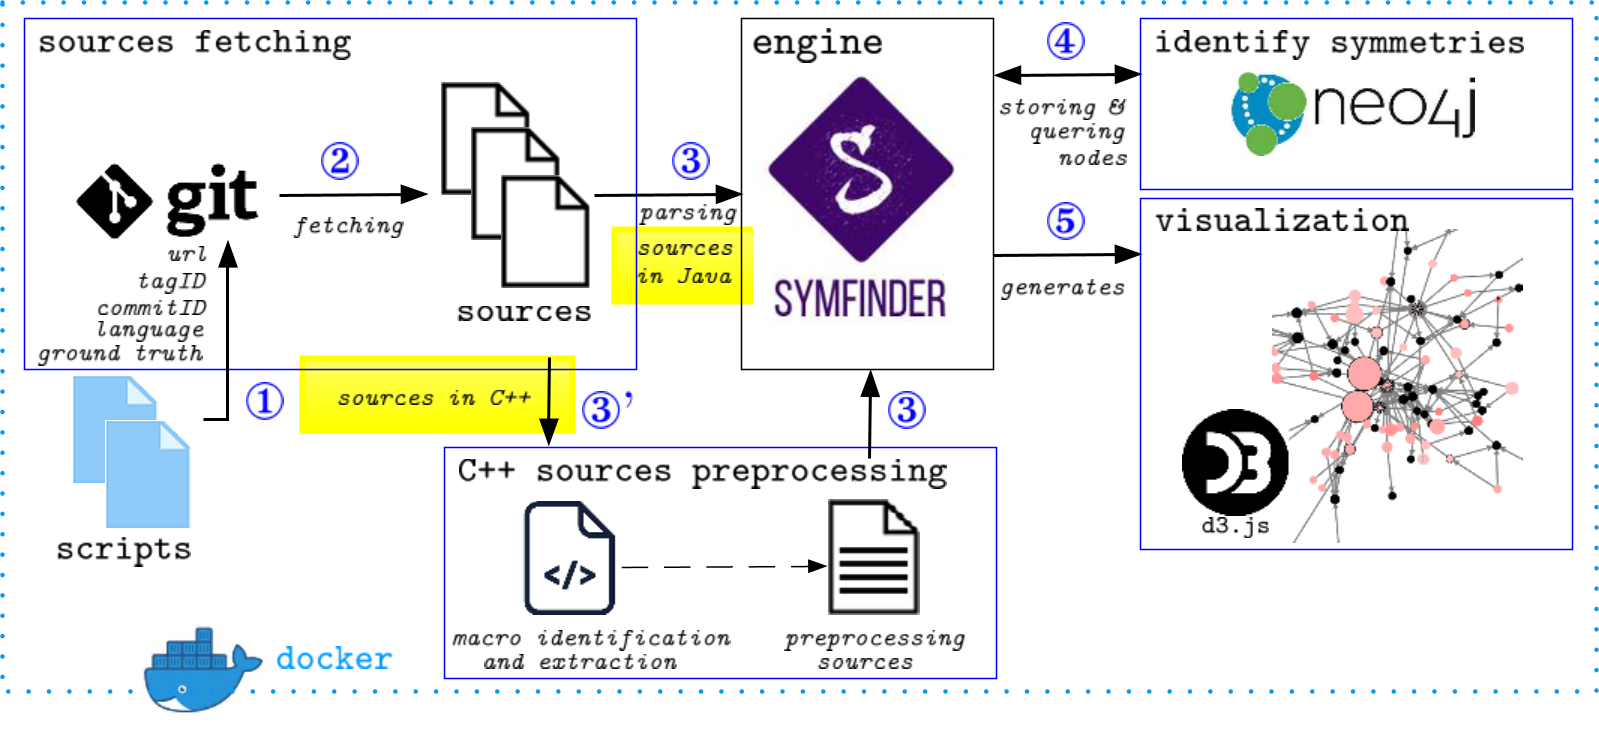
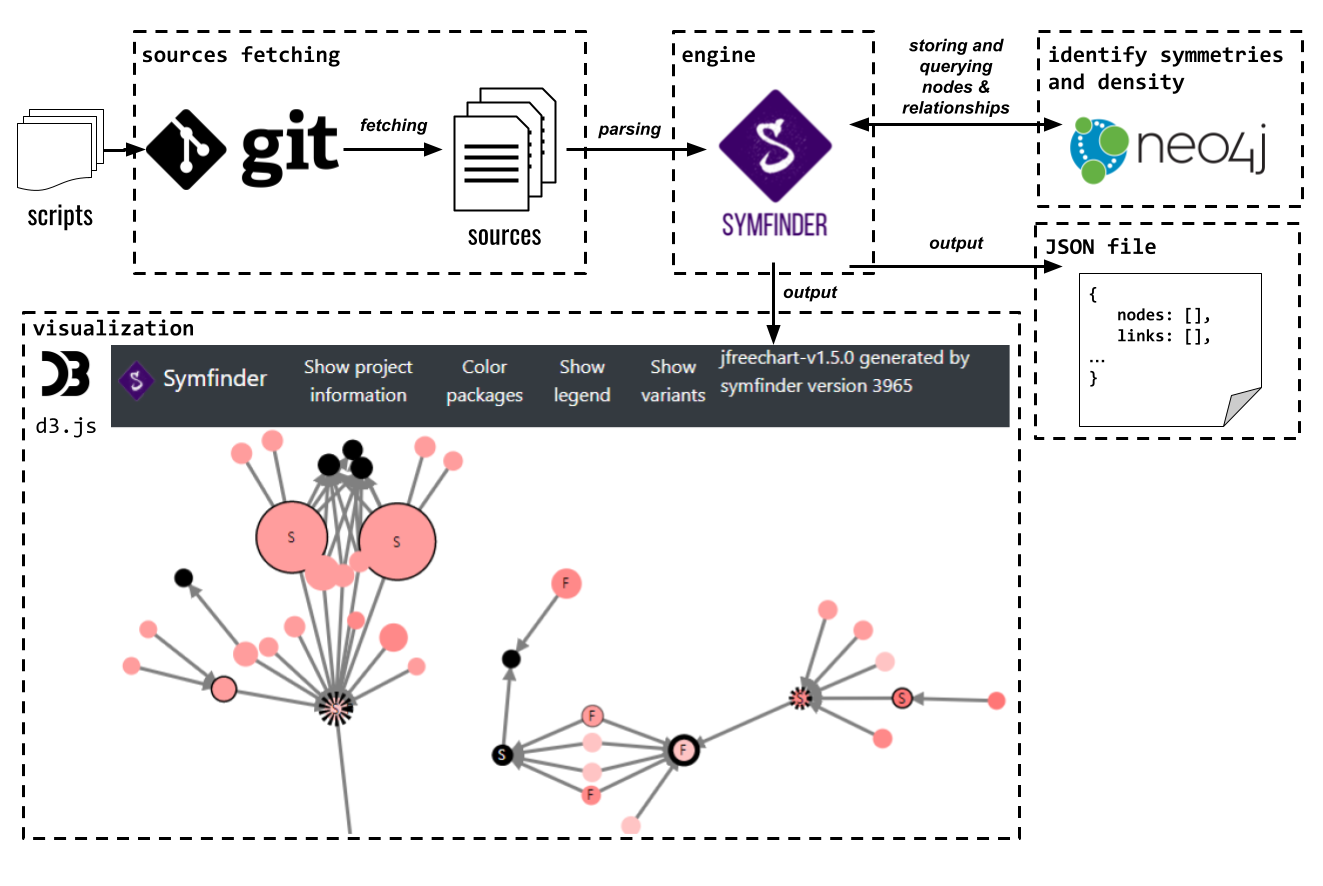
Updated README

Changed region(s): [[0.0, 0.0, 1.0, 0.9674], [0.9917, 0.905, 1.0, 0.9362], [0.9917, 0.6866, 1.0, 0.7178]]

diff --git a/docs/index.md b/docs/index.md
@@ -1,7 +1,14 @@
 # How I Met Your Implemented Variability: Identification in Object-Oriented Systems with symfinder
-### SPLC 2021 Tutorial
 
-#### [Johann Mortara](https://j-mortara.github.io/) — [Philippe Collet](https://www.i3s.unice.fr/Philippe_Collet/)
+## [Johann Mortara](https://j-mortara.github.io/) — [Philippe Collet](https://www.i3s.unice.fr/Philippe_Collet/)
+
+## Table of Contents
+
+- [Objectives](objectives)
+- [Plan](plan)
+- [symfinder references](symfinder-references)
+
+## Objectives
 
 With this tutorial, we aim to provide academics and practitioners a practical experience of how the symfinder toolchain can assist variability identification activities in variability-rich object-oriented systems maintained in a single code base.
 Participants will 
@@ -9,25 +16,6 @@ Participants will
 * learn about the underlying concepts of symfinder (i.e. symmetries in object-oriented mechanisms, density) and how they are used in the toolchain,
 * learn how to run a symfinder analysis on one or multiple projects, and
 * identify variability by interpreting the obtained visual results on both an example project and a project of their choice.
-
-## Presentation of symfinder
-
-### Organization of the toolchain
-
-[![toolchain](img/toolchain.png)](img/toolchain.png)
-_Click on the image to view full size_
-
-### Organization of the toolchain
-
-[![toolchain](img/visualization.png)](img/visualization.png)
-_Click on the image to view full size_
-
-
-## symfinder references
-
-* Main symfinder site (code): [https://github.com/DeathStar3/symfinder](https://github.com/DeathStar3/symfinder)
-* Symfinder demo site: [https://deathstar3.github.io/symfinder-demo/](https://deathstar3.github.io/symfinder-demo/)
-* Dockerized version of symfinder : [https://hub.docker.com/u/deathstar3](https://hub.docker.com/u/deathstar3)
 
 ## Plan
 
@@ -63,9 +51,9 @@ Lab:
 * Docker installation (if needed)
 * Running symfinder analysis on the example project
 * Accessing the visualization
-* Browing and identifying variability (group work and exchange)
+* Browsing and identifying variability (group work and exchange)
 
-Remote execution of symfinder, in case the attendee'setup is not compatible (TBD)
+Remote execution of symfinder may be provided in case of problem with your machine.
 
 ### Part 3 - Guided use of symfinder
 
@@ -73,7 +61,7 @@ Lab:
 
 * Application to *your* system
 
-List of large subject systems (TBD)
+List of provided subject systems (TBD)
 
 ### Part 4 - Exchange time
 
@@ -84,7 +72,31 @@ Outline:
 *  Discussion on the usage of the different features of the symfinder visualization
 *  Feedback time on the experience and possible improvements
 
-## Links
 
+## symfinder references
+
+### Figures
+
+#### Organization of the toolchain
+
+[![toolchain](img/toolchain.png)](img/toolchain.png)
+_Click on the image to view full size_
+
+#### Excerpts of visualizations
+
+**symfinder**
+[![toolchain](img/visualization-symfinder.png)](img/visualization-symfinder.png)
+_Click on the image to view full size_
+
+**symfinder-2**
+[![toolchain](img/visualization-symfinder-2.png)](img/visualization-symfinder-2.png)
+_Click on the image to view full size_
+
+
+### Links
+
+* Main symfinder site (code): [https://github.com/DeathStar3/symfinder](https://github.com/DeathStar3/symfinder)
+* symfinder demo site: [https://deathstar3.github.io/symfinder-demo/](https://deathstar3.github.io/symfinder-demo/)
+* Dockerized images : [https://hub.docker.com/u/deathstar3](https://hub.docker.com/u/deathstar3)
 * Sharing space for the visualizations (TBD)
 * Tutorial's hall of fame (TBD)
